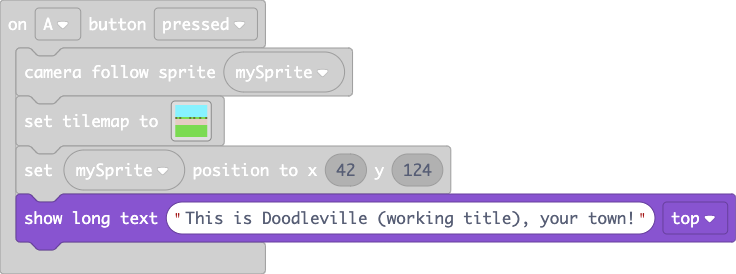
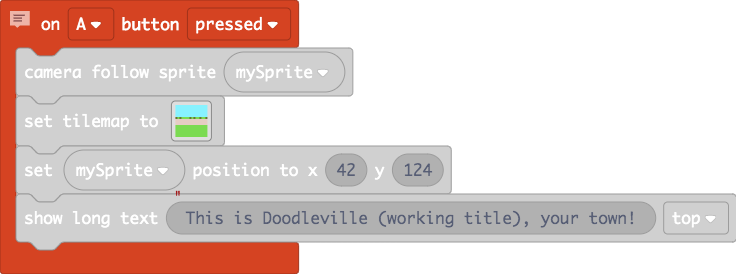
Update main.blocks, main.ts

diff --git a/main.ts b/main.ts
@@ -114,6 +114,9 @@ d d d d d d d d d d d d d d d d
 9 9 9 9 9 9 9 9 9 9 9 9 9 9 9 9 
 `
 }
+// You are really off to a great start!  I love the
+// sprites!  I like all of this!  Keep up the good
+// work!
 controller.A.onEvent(ControllerButtonEvent.Pressed, function () {
     scene.cameraFollowSprite(mySprite)
     tiles.setTilemap(tiles.createTilemap(
